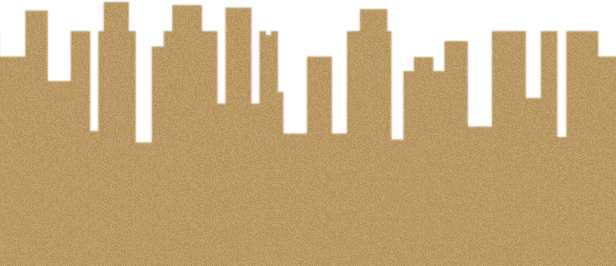
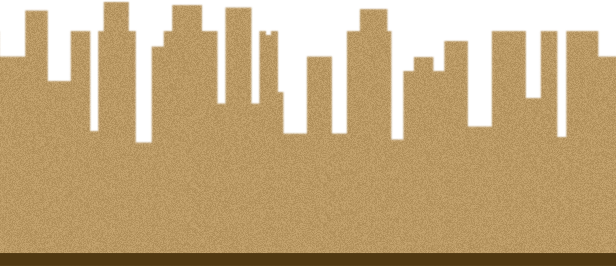
New header image, updated homepage content

Changed region(s): [[0.0, 0.9323, 1.0, 1.0]]

diff --git a/Skeleton/index.html b/Skeleton/index.html
@@ -136,9 +136,11 @@
         </div>
         
         <div class="eight columns">
+        	<div class="darkbox">
         	<p><strong>Strange is a small studio of multi-disciplinary makers who specialise in research and rapid prototyping.</strong></p>
         	
         	<p>We analyze our client’s current product and market positions and develop new technology and business strategies for them. Our focus lies in the collision between fact and fiction but we’ll work on anything that sparks our interest.</p>
+        	</div>
         </div>
         
         <div class="eight columns">

diff --git a/Skeleton/stylesheets/layout.css b/Skeleton/stylesheets/layout.css
@@ -29,6 +29,11 @@ h4 { font-size: 24px; margin-bottom: 5px; }
 .largearrow { font-size: 60px; color: #d0d0d0; }
 .largearrow a {  text-decoration: none; }
 
+.darkbox {
+	background-color: rgba(0, 0, 0, 0.3);
+	padding: 20px;	
+}
+
 
 /* #Header
 ================================================== */
@@ -153,8 +158,6 @@ header nav li:last-child a { margin-right: 0px; }
 	font-weight: 600;
 	font-size: 15px; 
 	line-height: 23px; }
-
-
 
 
 
